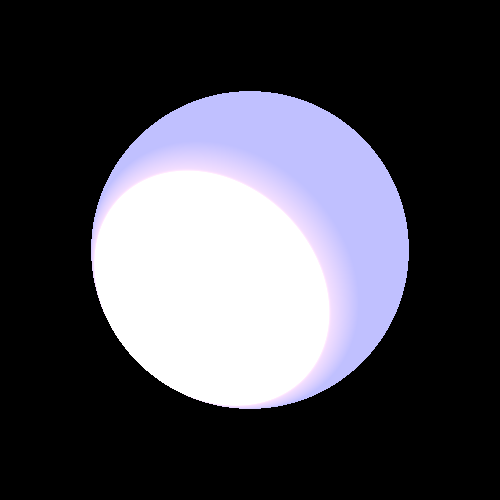
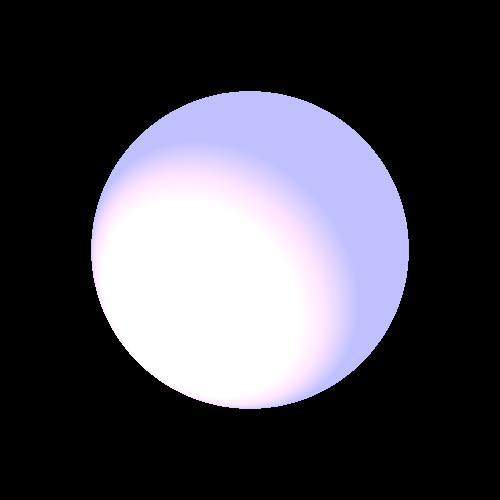
exercise6

diff --git a/src/renderer/BasicRayTracer.java b/src/renderer/BasicRayTracer.java
@@ -65,29 +65,48 @@ public class BasicRayTracer extends RayTracerBase {
             double nl = alignZero(n.dotProduct(l));
             if (nl * nv > 0) { // sign(nl) == sing(nv)
                 Color lightIntensity = lightSource.getIntensity(gpoint.point);
-//                color = color.add(calcDiffusive(kd, l, n, lightIntensity),
-//                        calcSpecular(ks, l, n, v, nShininess, lightIntensity));
-                double das = calcDiffusive(kd, l, n,lightIntensity) + (calcSpecular(ks, l, n, v, nShininess,lightIntensity));
-                if (das != 0) {
-                    Color diffuseAndSpecular = lightIntensity.scale(das);
-                    color = color.add(diffuseAndSpecular);
-                }
+                color = color.add(calcDiffusive(kd, l, n, lightIntensity),
+                        calcSpecular(ks, l, n, v, nShininess, lightIntensity));
+                color=color.add(gpoint.geometry.getEmmission());
+
             }
         }
         return color;
     }
 
 
-    private double calcDiffusive(double kd, Vector l, Vector n, Color lightIntensity) {
+    /**
+     * this function calculates a part of Phong formula
+     * @param kd
+     * @param l
+     * @param n
+     * @param lightIntensity
+     * @return the result:  kd*|l*n|*Il
+     */
+
+    private Color calcDiffusive(double kd, Vector l, Vector n, Color lightIntensity) {
+
         double ln = Math.abs(l.dotProduct(n));
-        return kd * ln;
+        return lightIntensity.scale(kd*ln);// kd*|l*n|*Il
+
     }
 
-    private double calcSpecular(double ks, Vector l, Vector n, Vector v, int nShininess, Color lightIntensity) {
+    /**
+     * this function calculates a part of Phong formula
+     * @param ks
+     * @param l
+     * @param n
+     * @param v
+     * @param nShininess
+     * @param lightIntensity
+     * @return the result: ks*(max(0,-v*r))^nShininess*Il
+     */
+
+    private Color calcSpecular(double ks, Vector l, Vector n, Vector v, int nShininess, Color lightIntensity) {
         double ln = l.dotProduct(n);
-        Vector r = l.subtract(n.scale(ln * -2));
+        Vector r = l.subtract(n.scale(ln * 2));
         double minusVR = v.scale(-1).dotProduct(r);
-        return ks * Math.max(0, Math.pow(minusVR, nShininess));
+        return lightIntensity.scale(ks * Math.max(0, Math.pow(minusVR, nShininess)));//ks*(max(0,-v*r))^nShininess*Il
     }
 
 

diff --git a/tests/renderer/LightsTests.java b/tests/renderer/LightsTests.java
@@ -144,4 +144,41 @@ public class LightsTests {
         render.writeToImage();
     }
 
+
+    /**
+     * Produce a picture of a two triangles lighted by a orange point light
+     */
+    @Test
+    public void trianglesPoint2() {
+        scene2.geometries.add(triangle1.setMaterial(new Material().setKd(0.75).setKs(0.75).setShininess(300)), //
+                triangle2.setMaterial(new Material().setKd(0.75).setKs(0.75).setShininess(300)));
+        scene2.lights.add(new PointLight(new Color(500, 248, 0), new Point3D(20, -5, -60)) //
+                .setKl(0.000075).setKq(0.000075));
+
+        ImageWriter imageWriter = new ImageWriter("lightTrianglesPoint2", 500, 500);
+        Render render = new Render()//
+                .setImageWriter(imageWriter) //
+                .setCamera(camera2) //
+                .setRayTracer(new BasicRayTracer(scene2));
+        render.renderImage();
+        render.writeToImage();
+    }
+
+    /**
+     * Produce a picture of a sphere lighted by a pink spot light
+     */
+    @Test
+    public void sphereSpot2() {
+        scene1.geometries.add(sphere);
+        scene1.lights.add(new SpotLight(new Color(413, 20, 427), new Point3D(-60, -60, 60), new Vector(2, 2, 2)) //
+                .setKl(0.0000075).setKq(0.0000000075));
+
+        ImageWriter imageWriter = new ImageWriter("lightSphereSpot2", 500, 500);
+        Render render = new Render()//
+                .setImageWriter(imageWriter) //
+                .setCamera(camera1) //
+                .setRayTracer(new BasicRayTracer(scene1));
+        render.renderImage();
+        render.writeToImage();
+    }
 }

diff --git a/src/elements/PointLight.java b/src/elements/PointLight.java
@@ -4,6 +4,9 @@ import primitives.Color;
 import primitives.Point3D;
 import primitives.Vector;
 
+/**
+ * this class inherited of Light and contain coefficients Kc, Kl, Kq and the position of PointLight
+ */
 public class PointLight extends Light implements LightSource{
 
     private final Point3D _position;
@@ -38,18 +41,33 @@ public class PointLight extends Light implements LightSource{
         return this;
     }
 
+    /**
+     * constructor of PointLight receives intensity and position, calls LightSource and put the position
+     * @param intensity
+     * @param position
+     */
     public PointLight(Color intensity,Point3D position) {
         super(intensity);
         _position = position;
     }
 
+    /**
+     * this function receives a point p and return the color at this point
+     * @param p
+     * @return Color at the point p
+     */
     @Override
     public Color getIntensity(Point3D p) {
         double d=p.distance(_position);
-        double attenuation=1d/(_Kc+_Kl*d+_Kq*d*d);
-        return _intensity.scale(attenuation);
+        double attenuation=1d/(_Kc+_Kl*d+_Kq*d*d);// this is the denominator
+        return _intensity.scale(attenuation);// I0*(1/kc+k*d+kq*d^2)
     }
 
+    /**
+     * this function receives a point p and return the director vector of the PointLight
+     * @param p
+     * @return Vector l
+     */
     @Override
     public Vector getL(Point3D p) {
         return p.subtract(_position).normalized();

diff --git a/src/elements/SpotLight.java b/src/elements/SpotLight.java
@@ -5,7 +5,7 @@ import primitives.Point3D;
 import primitives.Vector;
 
 /**
- *
+ * this class inherited of PointLight and contains a director vector
  */
 public class SpotLight extends PointLight {
     /**
@@ -13,7 +13,7 @@ public class SpotLight extends PointLight {
      */
     private final Vector _direction;
 
-    /**
+    /** constructor of SpotLight, calls the constructor of PointLight and put the director vector
      * @param intensity
      * @param position
      * @param direction
@@ -24,15 +24,15 @@ public class SpotLight extends PointLight {
     }
 
     /**
-     *
+     *this function return the intensity color at the point p
      * @param p
-     * @return
+     * @return Coor at the point p
      */
     @Override
     public Color getIntensity(Point3D p) {
-        Color baseIntensity= super.getIntensity(p);
+        Color baseIntensity= super.getIntensity(p); // baseIntensity =(I0/kc+k*d+kq*d^2)
         Vector l=getL(p);
         double factor=Math.max(0,_direction.dotProduct(l));
-        return baseIntensity.scale(factor);
+        return baseIntensity.scale(factor); //return baseIntensity*(max(0,dir*l))
     }
 }

diff --git a/src/geometries/Geometry.java b/src/geometries/Geometry.java
@@ -5,11 +5,17 @@ import primitives.Material;
 import primitives.Point3D;
 import primitives.Vector;
 
-
+/**
+ * this class is an abstract class and contains emission color of a geometry and material
+ */
 public abstract class Geometry implements Intersectable {
     protected Color _emmission = Color.BLACK;
     protected Material _material = new Material();
 
+    /**
+     * getter
+     * @return Material object
+     */
     public Material getMaterial() {
         return _material;
     }
@@ -19,11 +25,21 @@ public abstract class Geometry implements Intersectable {
         return _emmission;
     }
 
+    /**
+     * this function receives an emission color and return geometry with this color
+     * @param emmission
+     * @return
+     */
     public Geometry setEmmission(Color emmission) {
         _emmission = emmission;
         return this;
     }
 
+    /**
+     * this function receives Material and return geometry with this Material
+     * @param material
+     * @return
+     */
     public Geometry setMaterial(Material material) {
         _material = material;
         return this;

diff --git a/src/primitives/Material.java b/src/primitives/Material.java
@@ -1,20 +1,41 @@
 package primitives;
 
+/**
+ * this class contains coefficients kd, ks and nShininess
+ */
+
 public class Material {
     public double Kd=0;
     public double Ks=0;
     public int nShininess=0;
 
+
+    /**
+     * setter
+     * @param kd
+     * @return Material object
+     */
     public Material setKd(double kd) {
         Kd = kd;
         return this;
     }
+
+    /**
+     * setter
+     * @param ks
+     * @return Material object
+     */
 
     public Material setKs(double ks) {
         Ks = ks;
         return this;
     }
 
+    /**
+     * setter
+     * @param nShininess
+     * @return Material object
+     */
     public Material setShininess(int nShininess) {
         this.nShininess = nShininess;
         return this;

diff --git a/src/geometries/Intersectable.java b/src/geometries/Intersectable.java
@@ -13,10 +13,16 @@ import java.util.stream.Collectors;
 public interface Intersectable {
     //List<Point3D> findIntersections(Ray ray);
     public List<GeoPoint> findGeoIntersections(Ray ray);
+    /**
+     * this class contains a geometry and point on this geometry
+     */
     public static class GeoPoint {
         public Geometry geometry;
         public Point3D point;
 
+        /**
+         * constructor of GeoPoint
+         */
         public GeoPoint(Geometry geometry, Point3D point) {
             this.geometry = geometry;
             this.point = point;

diff --git a/src/primitives/Ray.java b/src/primitives/Ray.java
@@ -74,10 +74,16 @@ public class Ray {
                 '}';
     }
 
+    /**
+     * find the closest point tin geopoint list
+     * @param geoPointList list of geopoint
+     * @return closest geopoint
+     */
+
     public GeoPoint findClosestGeoPoint(List<GeoPoint> geoPointList)
     {
         GeoPoint result=null;
-        double closestDistance=Double.MAX_VALUE;
+        double closestDistance=Double.MAX_VALUE;// closestDistance = a big value
 
         if(geoPointList==null){
             return null;

diff --git a/src/scene/Scene.java b/src/scene/Scene.java
@@ -15,6 +15,11 @@ public class Scene {
     public Geometries geometries=null;
     public List<LightSource> lights =new LinkedList<>();
 
+    /**
+     * this setter receives a list of LightSource and put in the field light the list
+     * @param lights
+     * @return a Scene object with the list of LightSource
+     */
     public Scene setLights(List<LightSource> lights) {
         this.lights = lights;
         return this;

diff --git a/src/elements/Light.java b/src/elements/Light.java
@@ -2,9 +2,15 @@ package elements;
 
 import primitives.Color;
 
+/**
+ * this class is an abstract class that contains hte intensity I0
+ */
 abstract class Light {
     protected final Color _intensity;
 
+    /**
+     * constructor of Light
+     */
     public Light(Color intensity) {
         _intensity = intensity;
     }

diff --git a/src/elements/LightSource.java b/src/elements/LightSource.java
@@ -4,6 +4,9 @@ import primitives.Point3D;
 
 import primitives.Vector;
 
+/**
+ * LightSource in an interface that contains intensity at point p and and the the director vector of the LightSource
+ */
 public interface LightSource {
     public Color getIntensity (Point3D p);
     public Vector getL(Point3D p);

diff --git a/tests/geometries/SphereTest.java b/tests/geometries/SphereTest.java
@@ -25,7 +25,7 @@ class SphereTest {
 
         // Test radius ZERO
         try {
-            new Sphere(0, new Point3D(0, 1, 0));
+            new Sphere(7, new Point3D(0, 1, 0));
         } catch (IllegalArgumentException e) {
             fail("Failed constructing a correct sphere");
         }
